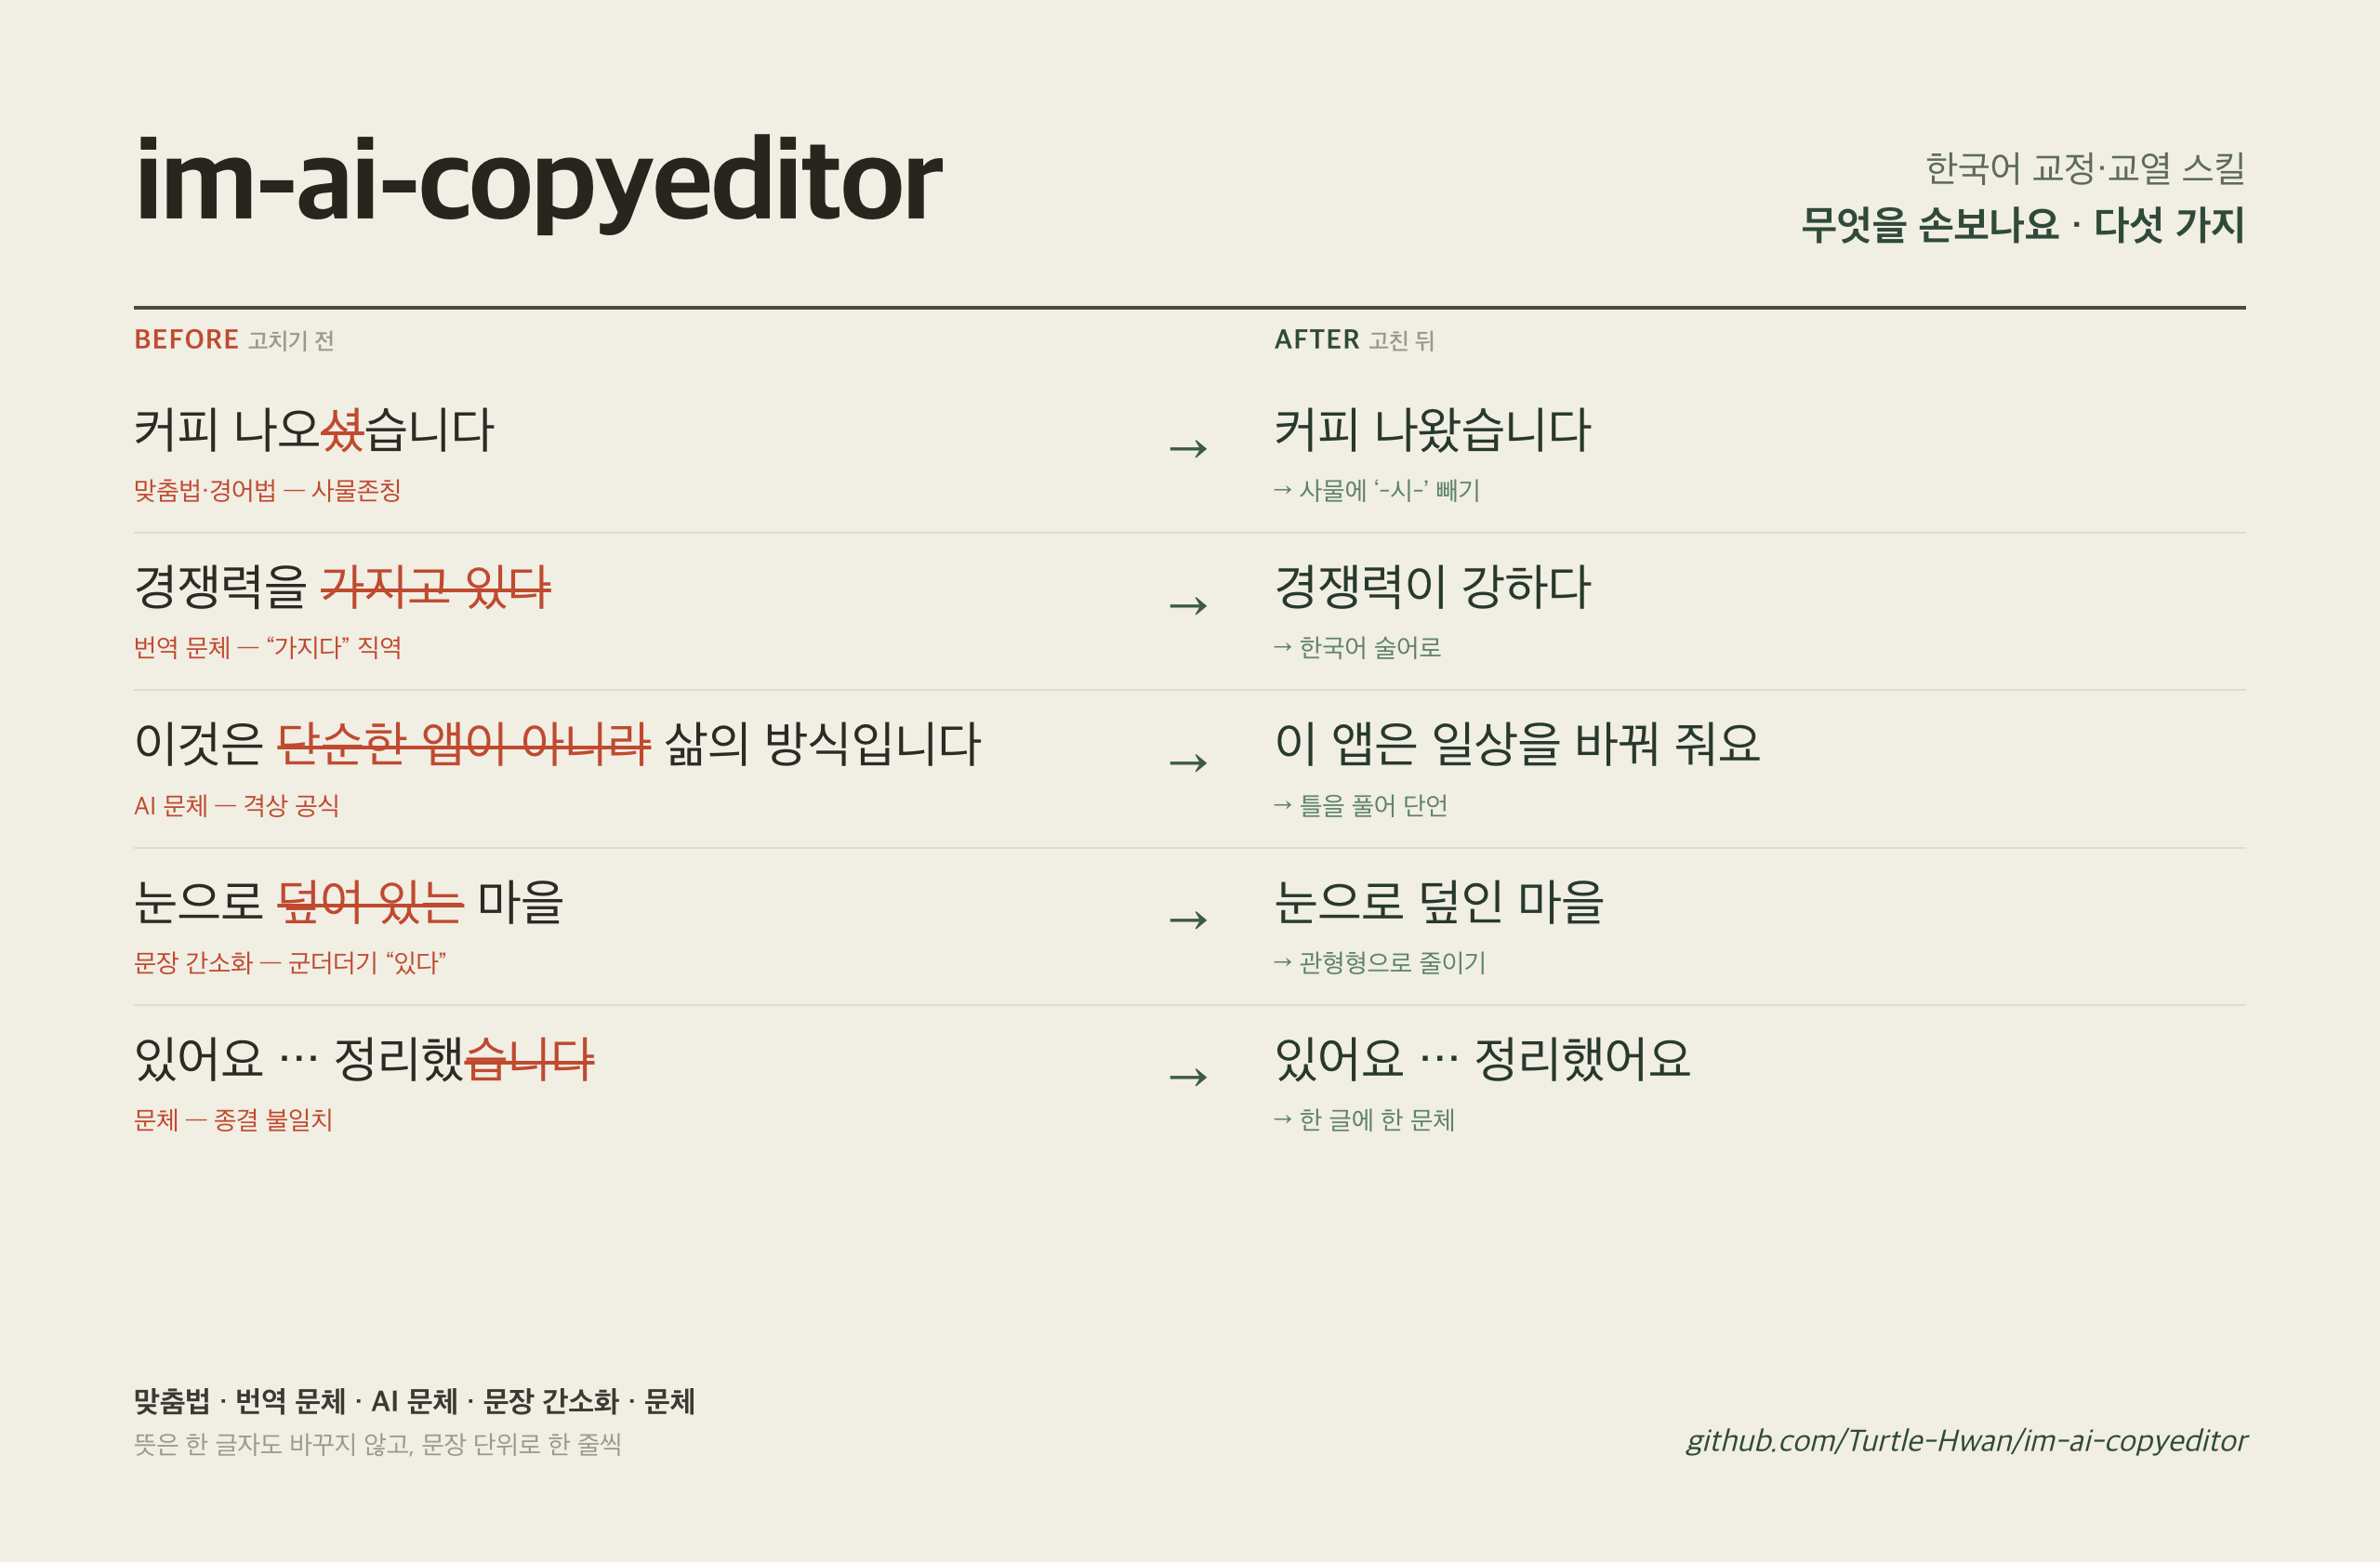
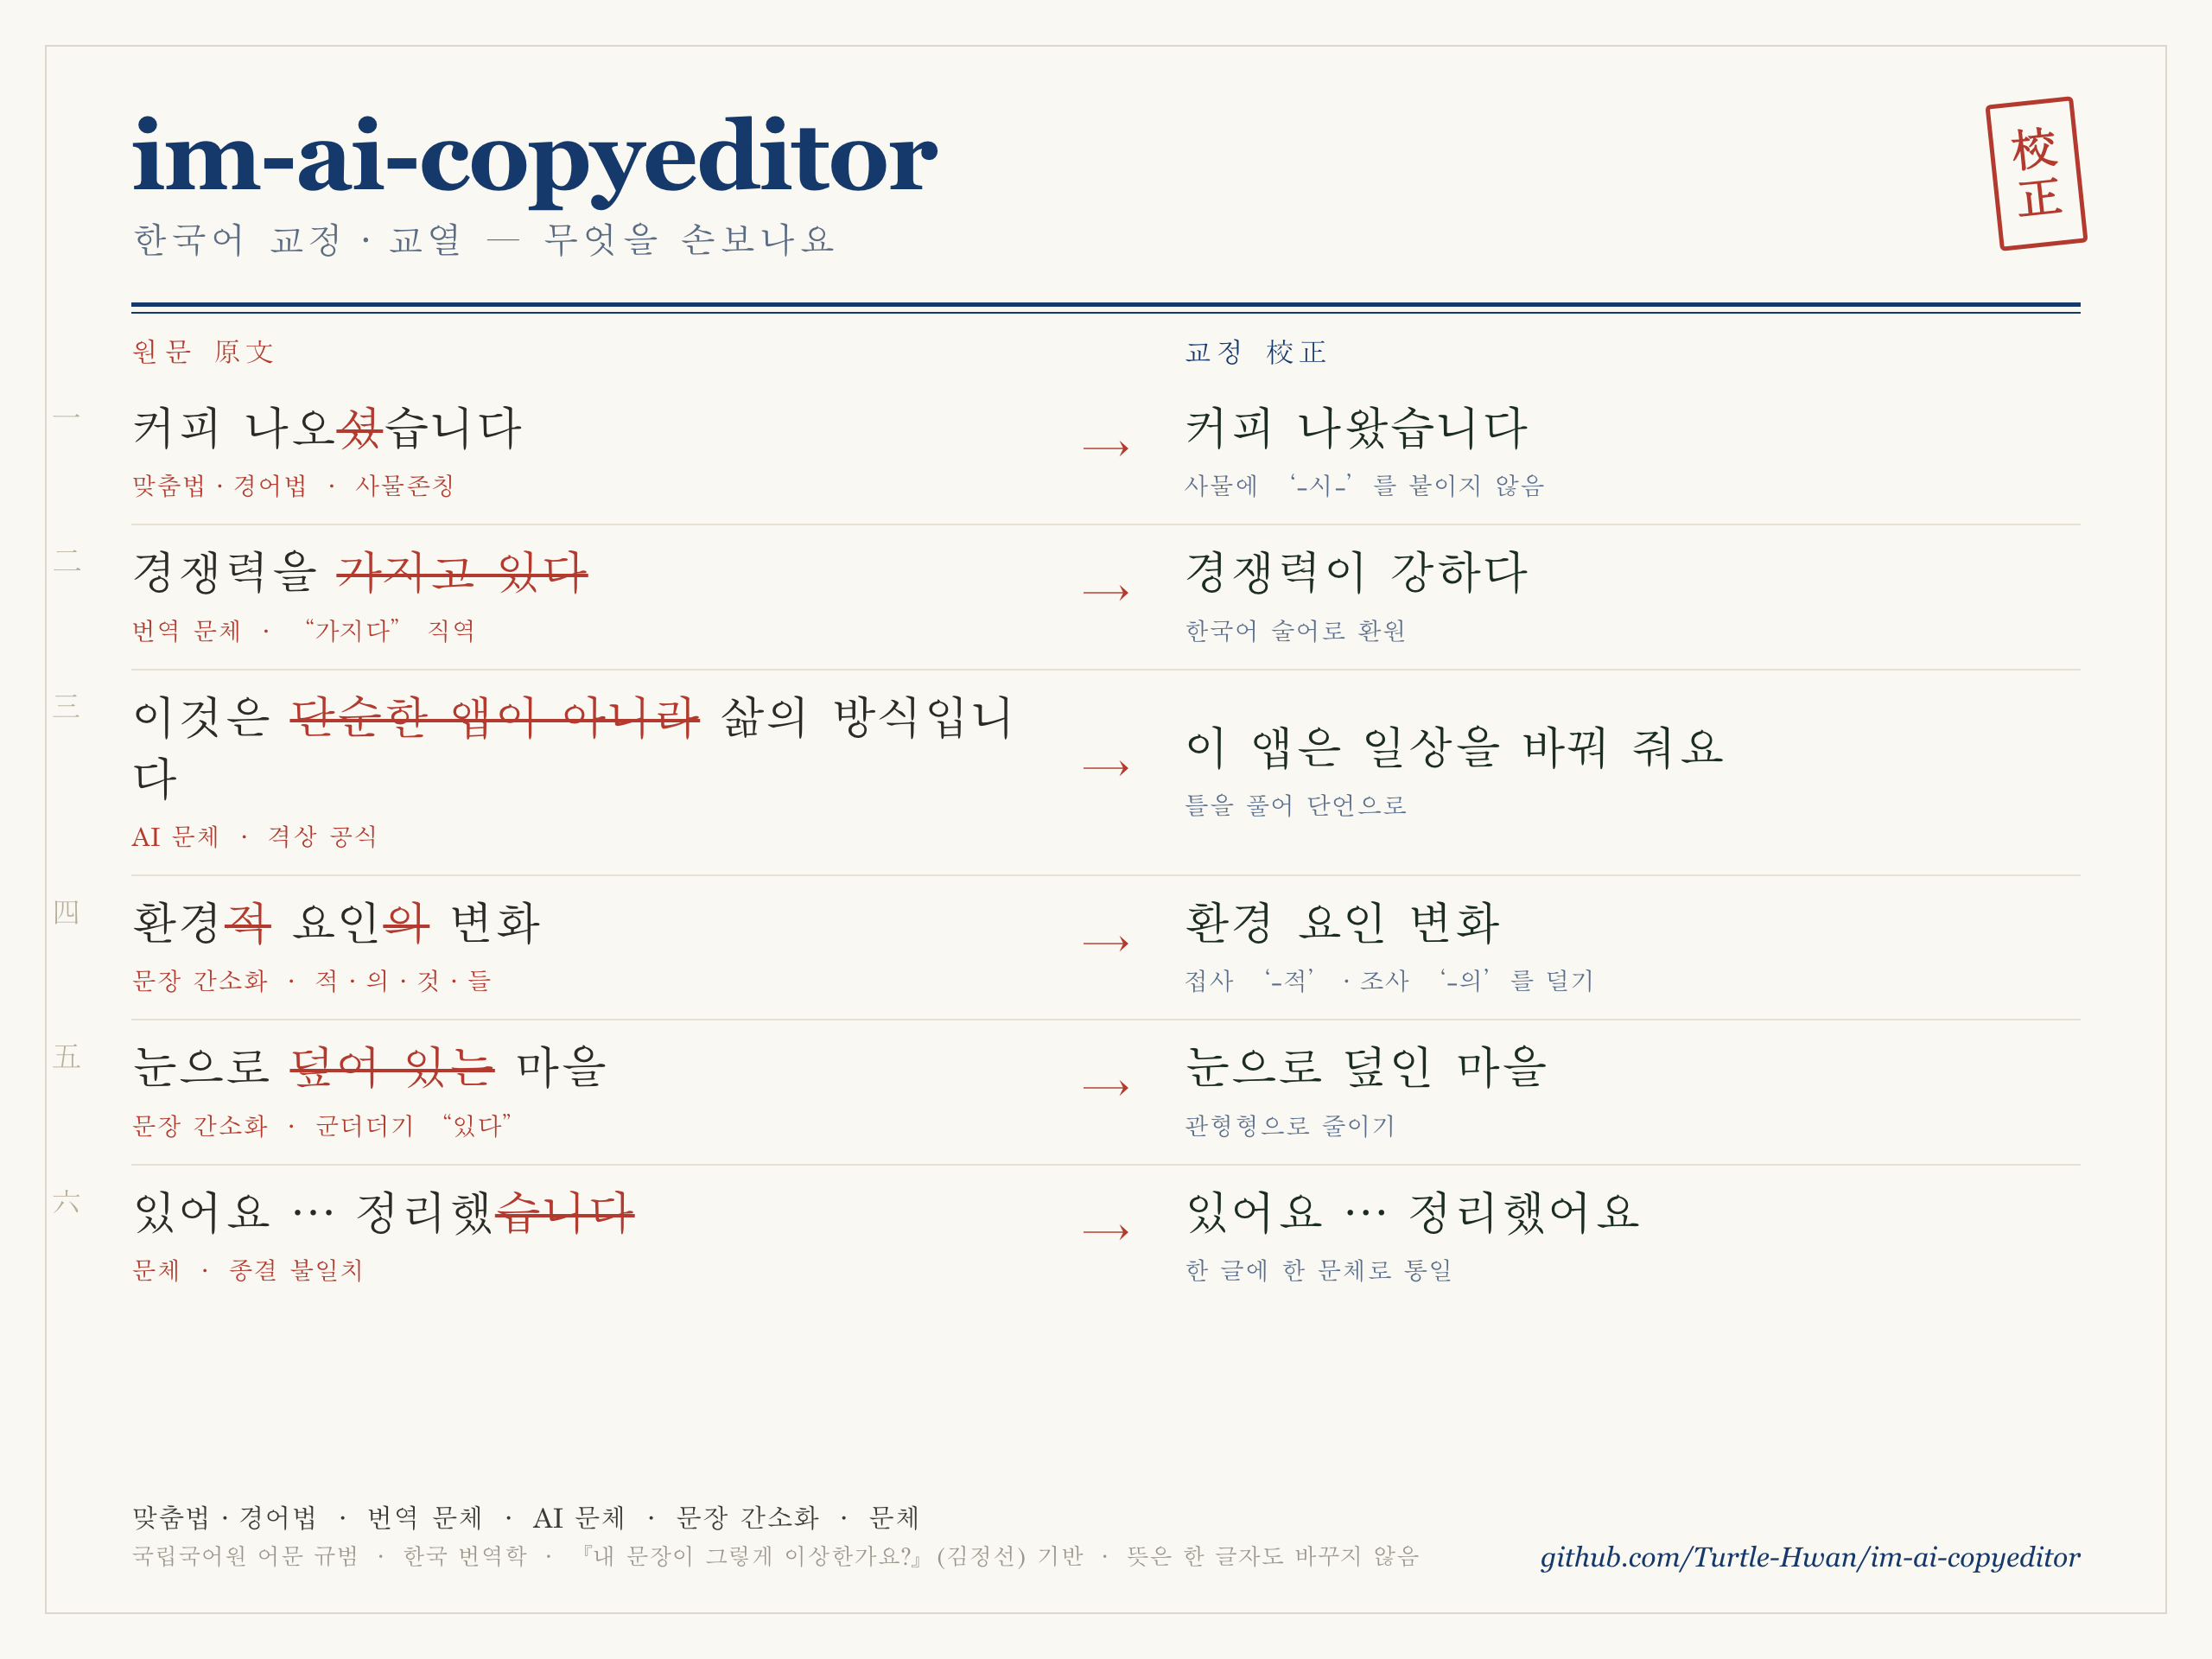
docs(readme): 손보기 카드 국립국어원 스타일로 변주(명조·교정 모티프, 적·의·것·들 추가) · 섹션 순서(손보기→차별점) · 설치 curl 한 줄+스킬/플러그인 구분 · install.sh 자가 부트스트랩 · 인트로 2문장

diff --git a/docs/what-we-fix.html b/docs/what-we-fix.html
@@ -4,88 +4,102 @@
 <meta charset="utf-8">
 <style>
   * { margin:0; padding:0; box-sizing:border-box; }
-  html,body { width:1280px; height:840px; }
+  html,body { width:1280px; height:960px; }
   body {
-    background:#F1EEE4;
-    font-family:"Apple SD Gothic Neo","-apple-system",sans-serif;
-    color:#2E2E29;
-    padding:64px 72px;
+    background:#FAF8F2;
+    font-family:"AppleMyungjo","Apple SD Gothic Neo",serif;
+    color:#2A2A26;
+    padding:58px 76px;
     -webkit-font-smoothing:antialiased;
+    position:relative;
   }
-  .head { display:flex; justify-content:space-between; align-items:flex-end; }
-  .brand { font-size:62px; font-weight:800; letter-spacing:-1.5px; color:#26261F; }
-  .sub { text-align:right; line-height:1.45; }
-  .sub .t1 { font-size:20px; color:#5D6B5C; }
-  .sub .t2 { font-size:22px; font-weight:700; color:#2F4A39; }
-  .rule { height:2px; background:#2E2E29; opacity:.85; margin:26px 0 8px; }
-  .cols { display:flex; font-size:15px; font-weight:700; letter-spacing:.4px; margin-bottom:10px; }
-  .cols .b { width:46%; color:#BF4A2F; }
-  .cols .a { width:46%; color:#2F4A39; margin-left:8%; }
-  .cols small { font-weight:600; color:#9A9A8C; letter-spacing:0; }
+  /* 종이 가장자리 얇은 테두리 — 문서 느낌 */
+  .sheet { position:absolute; inset:26px; border:1px solid #DcD7C8; pointer-events:none; }
 
-  .row { display:grid; grid-template-columns:46% 8% 46%; align-items:center; padding:13px 0; }
-  .row + .row { border-top:1px solid #E0DCCD; }
-  .before .main, .after .main { font-size:27px; line-height:1.3; color:#2B2B25; }
-  .after .main { color:#27392C; }
-  .before s { color:#BF4A2F; text-decoration-thickness:2px; }
-  .before .label { font-size:14px; color:#BF4A2F; margin-top:6px; }
-  .after .note  { font-size:14px; color:#5E8468; margin-top:6px; }
-  .arrow { text-align:center; font-size:30px; color:#3B5A47; }
+  .head { display:flex; justify-content:space-between; align-items:flex-start; }
+  .brand { font-family:"Georgia","AppleMyungjo",serif; font-size:56px; font-weight:700; letter-spacing:-1px; color:#15396A; }
+  .brand .ko { display:block; font-family:"AppleMyungjo",serif; font-size:21px; font-weight:400; color:#5B6B82; letter-spacing:2px; margin-top:6px; }
+  .seal { border:2.5px solid #B23A2E; color:#B23A2E; font-size:26px; font-weight:700; padding:12px 10px; line-height:1; letter-spacing:2px; transform:rotate(-6deg); border-radius:3px; writing-mode:vertical-rl; }
 
-  .foot { display:flex; justify-content:space-between; align-items:flex-end; position:absolute; left:72px; right:72px; bottom:54px; }
-  .foot .l1 { font-size:16px; font-weight:700; color:#3A3A33; }
-  .foot .l2 { font-size:14px; color:#9A9A8C; margin-top:5px; }
-  .foot .gh { font-size:17px; color:#2F4A39; font-style:italic; }
+  /* 관보식 이중 괘선 */
+  .drule { margin:22px 0 6px; }
+  .drule .l1 { height:2.5px; background:#15396A; }
+  .drule .l2 { height:1px; background:#15396A; margin-top:3px; }
+
+  .cols { display:grid; grid-template-columns:46% 8% 46%; font-size:16px; letter-spacing:3px; margin:14px 0 6px; }
+  .cols .b { color:#B23A2E; }
+  .cols .a { color:#15396A; text-align:left; grid-column:3; }
+
+  .row { display:grid; grid-template-columns:46% 8% 46%; align-items:center; padding:12px 0; }
+  .row + .row { border-top:1px solid #E7E1D2; }
+  .num { position:absolute; margin-left:-46px; color:#B6AE99; font-size:17px; }
+  .before .main, .after .main { font-size:27px; line-height:1.32; }
+  .after .main { color:#1B2C20; }
+  .before s { color:#B23A2E; text-decoration-thickness:2px; }
+  .before .label { font-size:14.5px; color:#B23A2E; margin-top:6px; letter-spacing:.2px; }
+  .after .note  { font-size:14.5px; color:#5A6E8C; margin-top:6px; letter-spacing:.2px; }
+  .arrow { text-align:center; font-size:26px; color:#B23A2E; }
+
+  .foot { position:absolute; left:76px; right:76px; bottom:50px; display:flex; justify-content:space-between; align-items:flex-end; }
+  .foot .l1 { font-size:15.5px; color:#3A3A33; }
+  .foot .l2 { font-size:13.5px; color:#9A968B; margin-top:5px; }
+  .foot .gh { font-family:"Georgia",serif; font-size:16px; color:#15396A; font-style:italic; }
 </style>
 </head>
 <body>
+  <div class="sheet"></div>
+
   <div class="head">
-    <div class="brand">im-ai-copyeditor</div>
-    <div class="sub">
-      <div class="t1">한국어 교정·교열 스킬</div>
-      <div class="t2">무엇을 손보나요 · 다섯 가지</div>
-    </div>
+    <div class="brand">im-ai-copyeditor<span class="ko">한국어 교정·교열 — 무엇을 손보나요</span></div>
+    <div class="seal">校正</div>
   </div>
-  <div class="rule"></div>
+  <div class="drule"><div class="l1"></div><div class="l2"></div></div>
+
   <div class="cols">
-    <div class="b">BEFORE <small>고치기 전</small></div>
-    <div class="a">AFTER <small>고친 뒤</small></div>
+    <div class="b">원문 原文</div>
+    <div class="a">교정 校正</div>
   </div>
 
   <div class="row">
-    <div class="before"><div class="main">커피 나오<s>셨</s>습니다</div><div class="label">맞춤법·경어법 — 사물존칭</div></div>
+    <div class="before"><span class="num">一</span><div class="main">커피 나오<s>셨</s>습니다</div><div class="label">맞춤법·경어법 · 사물존칭</div></div>
     <div class="arrow">→</div>
-    <div class="after"><div class="main">커피 나왔습니다</div><div class="note">→ 사물에 ‘-시-’ 빼기</div></div>
+    <div class="after"><div class="main">커피 나왔습니다</div><div class="note">사물에 ‘-시-’를 붙이지 않음</div></div>
   </div>
 
   <div class="row">
-    <div class="before"><div class="main">경쟁력을 <s>가지고 있다</s></div><div class="label">번역 문체 — “가지다” 직역</div></div>
+    <div class="before"><span class="num">二</span><div class="main">경쟁력을 <s>가지고 있다</s></div><div class="label">번역 문체 · “가지다” 직역</div></div>
     <div class="arrow">→</div>
-    <div class="after"><div class="main">경쟁력이 강하다</div><div class="note">→ 한국어 술어로</div></div>
+    <div class="after"><div class="main">경쟁력이 강하다</div><div class="note">한국어 술어로 환원</div></div>
   </div>
 
   <div class="row">
-    <div class="before"><div class="main">이것은 <s>단순한 앱이 아니라</s> 삶의 방식입니다</div><div class="label">AI 문체 — 격상 공식</div></div>
+    <div class="before"><span class="num">三</span><div class="main">이것은 <s>단순한 앱이 아니라</s> 삶의 방식입니다</div><div class="label">AI 문체 · 격상 공식</div></div>
     <div class="arrow">→</div>
-    <div class="after"><div class="main">이 앱은 일상을 바꿔 줘요</div><div class="note">→ 틀을 풀어 단언</div></div>
+    <div class="after"><div class="main">이 앱은 일상을 바꿔 줘요</div><div class="note">틀을 풀어 단언으로</div></div>
   </div>
 
   <div class="row">
-    <div class="before"><div class="main">눈으로 <s>덮여 있는</s> 마을</div><div class="label">문장 간소화 — 군더더기 “있다”</div></div>
+    <div class="before"><span class="num">四</span><div class="main">환경<s>적</s> 요인<s>의</s> 변화</div><div class="label">문장 간소화 · 적·의·것·들</div></div>
     <div class="arrow">→</div>
-    <div class="after"><div class="main">눈으로 덮인 마을</div><div class="note">→ 관형형으로 줄이기</div></div>
+    <div class="after"><div class="main">환경 요인 변화</div><div class="note">접사 ‘-적’·조사 ‘-의’를 덜기</div></div>
   </div>
 
   <div class="row">
-    <div class="before"><div class="main">있어요 … 정리했<s>습니다</s></div><div class="label">문체 — 종결 불일치</div></div>
+    <div class="before"><span class="num">五</span><div class="main">눈으로 <s>덮여 있는</s> 마을</div><div class="label">문장 간소화 · 군더더기 “있다”</div></div>
     <div class="arrow">→</div>
-    <div class="after"><div class="main">있어요 … 정리했어요</div><div class="note">→ 한 글에 한 문체</div></div>
+    <div class="after"><div class="main">눈으로 덮인 마을</div><div class="note">관형형으로 줄이기</div></div>
+  </div>
+
+  <div class="row">
+    <div class="before"><span class="num">六</span><div class="main">있어요 … 정리했<s>습니다</s></div><div class="label">문체 · 종결 불일치</div></div>
+    <div class="arrow">→</div>
+    <div class="after"><div class="main">있어요 … 정리했어요</div><div class="note">한 글에 한 문체로 통일</div></div>
   </div>
 
   <div class="foot">
     <div>
-      <div class="l1">맞춤법 · 번역 문체 · AI 문체 · 문장 간소화 · 문체</div>
-      <div class="l2">뜻은 한 글자도 바꾸지 않고, 문장 단위로 한 줄씩</div>
+      <div class="l1">맞춤법·경어법 · 번역 문체 · AI 문체 · 문장 간소화 · 문체</div>
+      <div class="l2">국립국어원 어문 규범 · 한국 번역학 · 『내 문장이 그렇게 이상한가요?』(김정선) 기반 · 뜻은 한 글자도 바꾸지 않음</div>
     </div>
     <div class="gh">github.com/Turtle-Hwan/im-ai-copyeditor</div>
   </div>

diff --git a/README.md b/README.md
@@ -2,10 +2,13 @@
 
 > **AI copyeditor for Korean.** 글이 AI든 사람이든, 진짜 교정·교열가처럼 한 문장 한 문장 꼼꼼히 첨삭해요.
 
-한국어 글을 다듬는 도구예요. **뜻은 한 글자도 바꾸지 않아요.** 군더더기와 어색함만 덜어 내요.
+한국어 글을 다듬어주는 도구예요. 영어 번역체와 AI 챗봇 같은 말투에서 군더더기와 어색함을 덜어내어 사람이 읽기 좋은 문장으로 바꾸어줘요.
 
-오직 한국어만을 위해 만들었어요. 영어를 옮긴 듯한 말투와 챗봇 같은 말투를 걷어 내고, 한국인이
-읽기에 자연스러운 문장으로 되돌려요.
+## 무엇을 손보나요
+
+다섯 가지를 손봐요. **맞춤법·경어법 · 번역 문체 · AI 문체 · 문장 간소화 · 문체.** 뜻은 한 글자도 바꾸지 않고, 문장 단위로 한 줄씩 다듬어요.
+
+![무엇을 손보나요 — 맞춤법·경어법(커피 나오셨습니다 → 나왔습니다), 번역 문체(가지고 있다 → 강하다), AI 문체(단순한 ~가 아니라 → 단언), 문장 간소화(적·의·것·들: 환경적 요인의 → 환경 요인 · 덮여 있는 → 덮인), 문체(종결 통일)를 before→after로 보여 주는 예시](docs/what-we-fix.png)
 
 ## 이런 점이 달라요
 
@@ -19,17 +22,11 @@
 
 - **문장 교정은 책에서 영감을 받았어요.**
 
-  문장을 교정하는 것은 책 [『내 문장이 그렇게 이상한가요?』](https://product.kyobobook.co.kr/detail/S000001863138)에서 영감을 받아 더했어요.
+  문장 교정 규칙은 책 [『내 문장이 그렇게 이상한가요?』](https://product.kyobobook.co.kr/detail/S000001863138)에서 영감을 받아 더했어요.
 
 - **한국어 특화 스킬이에요.**
 
   규칙은 국립국어원 어문 규범과 번역학·문체 논문에 근거해요.
-
-## 무엇을 손보나요
-
-다섯 가지를 손봐요. **맞춤법·경어법 · 번역 문체 · AI 문체 · 문장 간소화 · 문체.** 뜻은 한 글자도 바꾸지 않고, 문장 단위로 한 줄씩 다듬어요.
-
-![무엇을 손보나요 — 맞춤법·경어법(커피 나오셨습니다 → 나왔습니다), 번역 문체(가지고 있다 → 강하다), AI 문체(단순한 ~가 아니라 → 단언), 문장 간소화(덮여 있는 → 덮인), 문체(종결 통일)를 before→after로 보여 주는 예시](docs/what-we-fix.png)
 
 ## 명령어
 
@@ -43,44 +40,51 @@
 | `/im-ai-copyeditor:trans` | 번역 문체 빼기. 피동→능동, 가지다·통해·대해, 무생물 주어, 대명사 남용 |
 | `/im-ai-copyeditor:ai` | AI 문체 빼기. 첫째·둘째 나열, 결말 공식, 과장 어휘, 괄호·쉼표, 클리셰 |
 
-설치하면 명령어로 불러요. 그냥 "이 글 문장 다듬어줘" 처럼 말해도 알아서 골라 줘요.
+위 슬래시 명령은 **플러그인**으로 깔았을 때 떠요(아래 설치 참고). **스킬**로 깔았으면 `im-ai-copyeditor` 처럼 이름으로 부르거나, 그냥 **"이 글 문장 다듬어줘"** 라고 하면 알아서 골라 줘요.
 
 ## 설치
 
-한 번 깔면 **Claude Code · Codex · OpenClaw · Hermes · Gemini CLI** 어디서나 그대로 써요.
-`./install.sh` 가 설치된 도구를 스스로 찾아 연결해요(심링크 기본, `git pull` 로 갱신).
+### 한 줄 설치 — 가장 간편 (스킬)
 
 ```bash
-git clone https://github.com/Turtle-Hwan/im-ai-copyeditor
-cd im-ai-copyeditor
-./install.sh            # 깔려 있는 도구를 자동으로 찾아 모두 연결
+curl -fsSL https://raw.githubusercontent.com/Turtle-Hwan/im-ai-copyeditor/main/install.sh | bash
 ```
 
-도구마다 어디에 깔리고 어떻게 부르는지:
+공개 저장소를 받아 깔려 있는 도구(**Claude Code · Codex · OpenClaw · Hermes · Gemini CLI**)를 스스로 찾아 **스킬**로 연결해요. 설치 뒤 그냥 **"이 글 문장 다듬어줘"** 라고 하거나 스킬을 이름으로 불러요. 특정 도구만 깔려면 끝에 `-s -- --claude-only` 처럼 붙여요.
 
-| 도구 | 설치 | 부르는 법 |
-|---|---|---|
-| **Claude Code** | `./install.sh` → `~/.claude/skills/` (또는 아래 마켓플레이스) | `/im-ai-copyeditor:all` · "이 글 다듬어줘" |
-| **Codex** | `./install.sh` → `~/.codex/skills/` · `~/.agents/skills/` | "이 글 문장 다듬어줘" |
-| **OpenClaw** | `./install.sh` → `~/.openclaw/skills/` · `~/.agents/skills/` | "이 글 문장 다듬어줘" |
-| **Hermes** | `./install.sh` → `~/.hermes/skills/writing/` | "이 글 문장 다듬어줘" |
-| **Gemini CLI** | `./install.sh` → `gemini extensions link` | `/im-ai-copyeditor` |
-
-**Claude Code — 클론 없이 한 줄 설치 (마켓플레이스)**
+### Claude Code 플러그인 — 슬래시 명령 `/im-ai-copyeditor:all`
 
 ```
 /plugin marketplace add Turtle-Hwan/im-ai-copyeditor
 /plugin install im-ai-copyeditor@im-ai-copyeditor
 ```
 
-**옵션** — 특정 도구만: `--claude-only` · `--codex-only` · `--openclaw-only` · `--hermes-only` · `--gemini-only` / 심링크 대신 복사: `--copy` / 미리보기: `--dry-run`
+플러그인으로 깔면 `/im-ai-copyeditor:all`·`:grammar`·`:sentence`·`:trans`·`:ai` 슬래시 명령이 생겨요. (위 한 줄 설치는 **스킬**만 깔아 이름·자연어로 불러요 — 둘은 부르는 방식만 다르고, 같은 규칙을 써요.)
+
+### 도구별 설치 위치
+
+| 도구 | 어디에 깔리나 | 부르는 법 |
+|---|---|---|
+| **Claude Code** | `~/.claude/skills/` (스킬) · 마켓플레이스(플러그인) | `im-ai-copyeditor` 스킬 · `/im-ai-copyeditor:all` · "이 글 다듬어줘" |
+| **Codex** | `~/.codex/skills/` · `~/.agents/skills/` | "이 글 문장 다듬어줘" |
+| **OpenClaw** | `~/.openclaw/skills/` · `~/.agents/skills/` | "이 글 문장 다듬어줘" |
+| **Hermes** | `~/.hermes/skills/writing/` | "이 글 문장 다듬어줘" |
+| **Gemini CLI** | `gemini extensions link` (확장) | `/im-ai-copyeditor` |
+
+### 직접 클론 — 수정·개발용
 
 ```bash
-./update.sh             # 새 버전 확인하고 적용
-./uninstall.sh          # 설치 제거
+git clone https://github.com/Turtle-Hwan/im-ai-copyeditor
+cd im-ai-copyeditor
+./install.sh            # 깔린 도구를 자동 감지해 연결
 ```
 
-설치한 뒤 새 세션에서 슬래시 명령(`/im-ai-copyeditor:all`)으로 부르거나, 그냥 **"이 글 문장 다듬어줘"** 처럼 말해도 알아서 골라 줘요.
+심링크가 기본이라 `git pull` 로 갱신돼요. 옵션 — 특정 도구만 `--claude-only` 등 · 복사 `--copy` · 미리보기 `--dry-run`.
+
+```bash
+./update.sh    # 새 버전 확인·적용
+./uninstall.sh # 제거
+```
 
 ## 동작 방식
 